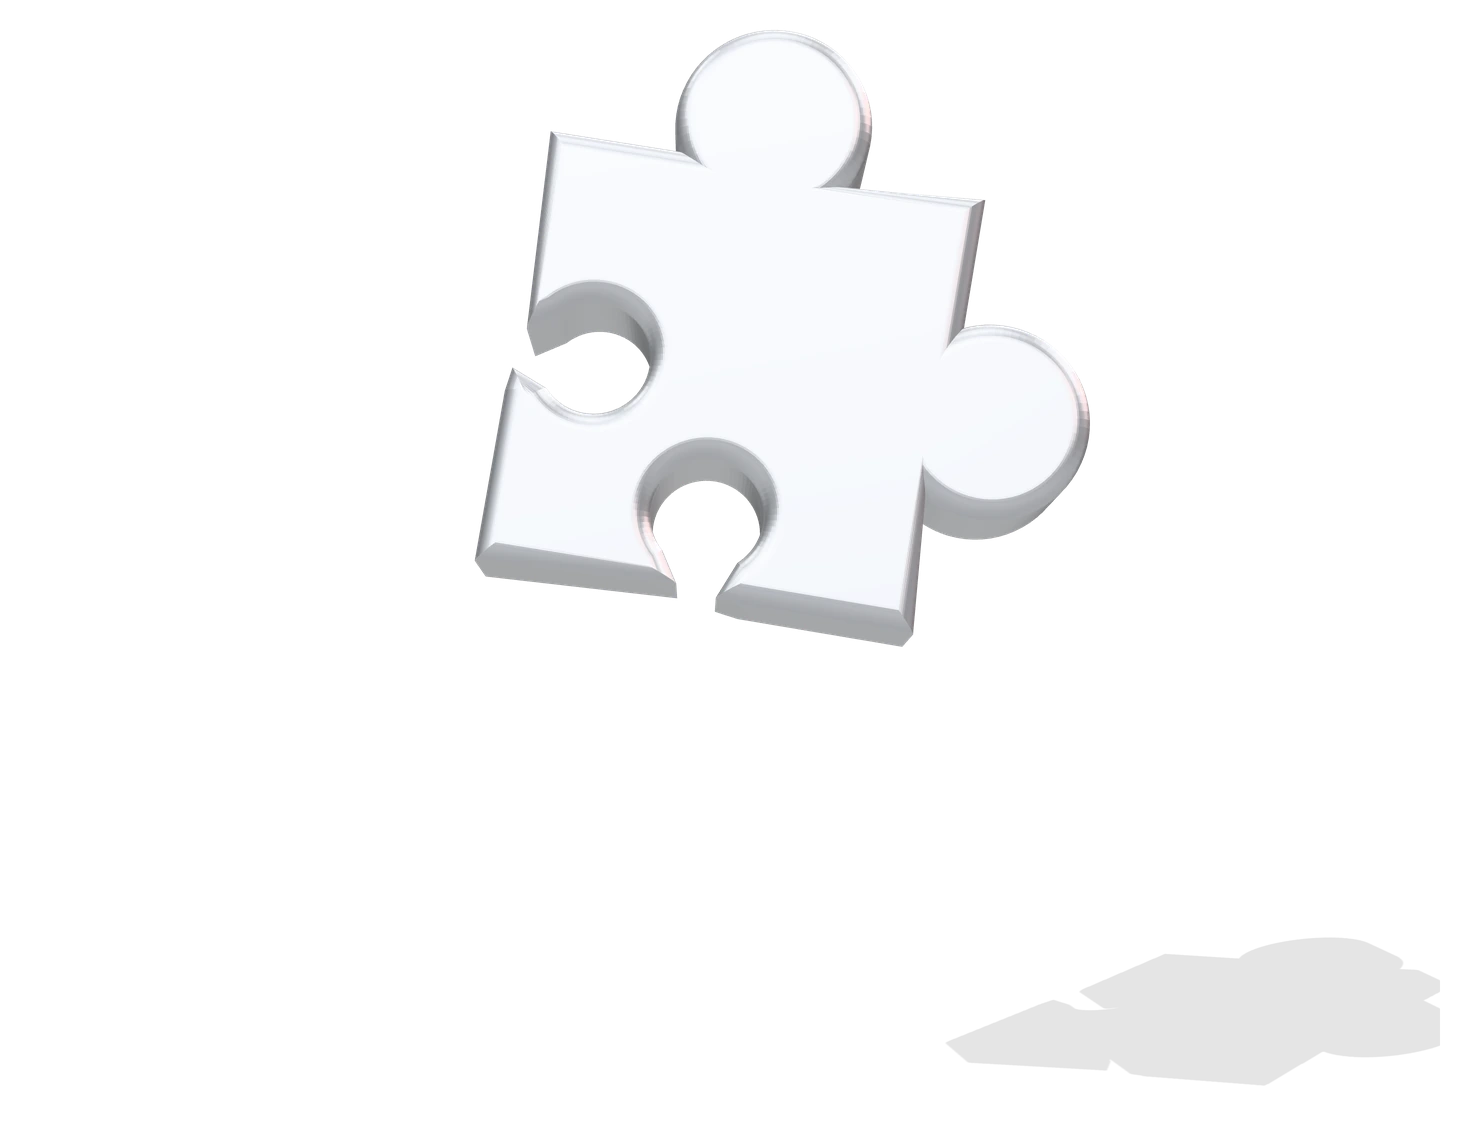
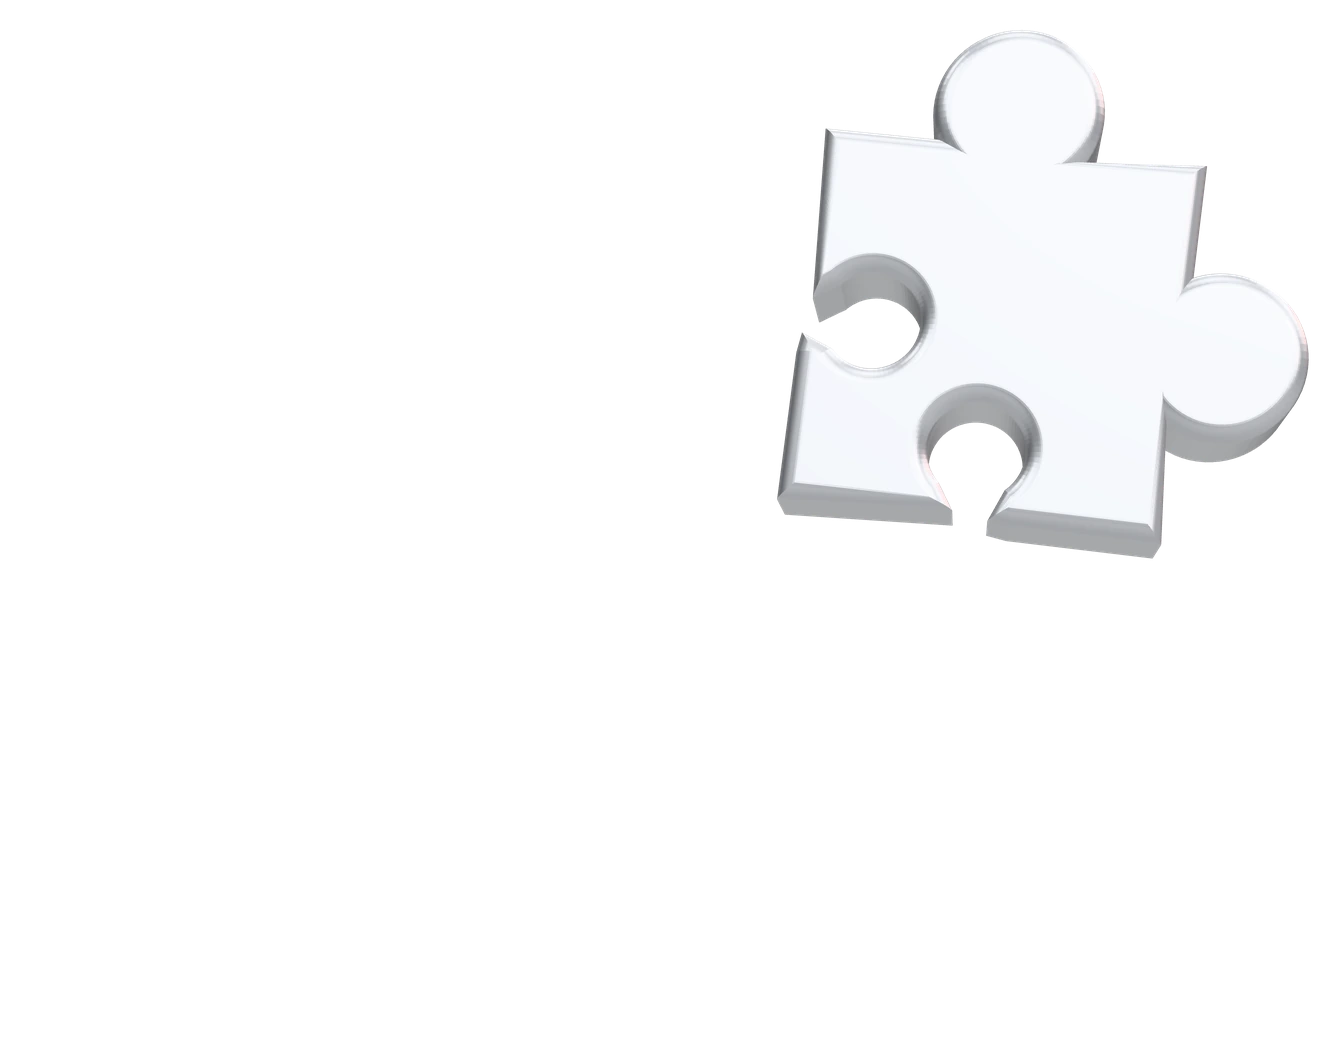
Hero: heart turned left, glass reflection, cursor tilt
Claude-Session: https://claude.ai/code/session_01PkeobWmfrChtD7SqVdFZLv

diff --git a/index.html b/index.html
@@ -754,22 +754,22 @@ a{color:#4A5163}a:hover{color:#E63E3E}
 /* light puzzle hero */
 .leaplite::after{display:none!important}
 .leaplite{background:radial-gradient(ellipse 70% 60% at 72% 48%,#FFF1EE 0%,#FFFFFF 62%)}
-.pzl{position:absolute;z-index:1;right:max(16px,calc((100vw - 1240px)/2));top:50%;width:min(40vw,620px);height:auto;aspect-ratio:1470/1140;transform:translateY(-44%);right:max(60px,calc((100vw - 1100px)/2))}
+.pzl{position:absolute;z-index:1;right:max(16px,calc((100vw - 1240px)/2));top:50%;width:min(40vw,620px);height:auto;aspect-ratio:1339/1045;transform:translateY(-52%) perspective(1400px) rotateX(var(--rx,0deg)) rotateY(var(--ry,0deg));transition:transform .6s cubic-bezier(.2,.8,.2,1);transform-style:preserve-3d;right:max(60px,calc((100vw - 1100px)/2))}
 .pzl img{position:absolute;inset:0;width:100%;height:100%;object-fit:contain}
 .pzl .pzb,.pzl .pzh,.pzl .pzf,.pzl .pzp,.pzl .pzo{position:absolute;inset:0;width:100%;height:100%}
 .pzh,.pzp,.pzo{object-fit:contain}
 .pzb{transform-origin:42% 60%}
 .pzh{filter:drop-shadow(0 30px 34px rgba(150,20,25,.16))}
-.pzf{-webkit-mask:var(--hm) center/contain no-repeat;mask:var(--hm) center/contain no-repeat;background:var(--fl) 0 0/170% auto;mix-blend-mode:soft-light;opacity:.3;animation:pzflow 14s linear infinite}
+.pzf{-webkit-mask:var(--hm) center/contain no-repeat;mask:var(--hm) center/contain no-repeat;background:var(--fl) 0 0/170% auto;mix-blend-mode:soft-light;opacity:.16;animation:pzflow 14s linear infinite}
 .pzp{opacity:0}
-.pzo{z-index:2;will-change:transform;transform-origin:52.5% 31.5%}
+.pzo{z-index:2;will-change:transform;transform-origin:76.8% 30.2%}
 .pzl:not(.fit) .pzo{animation:pzbob 3.2s ease-in-out infinite}
 @keyframes pzbob{0%,100%{translate:0 0}50%{translate:0 -1.6%}}
 .pzl.fit .pzo{opacity:0}.pzl.fit .pzp{opacity:1}
 @keyframes pzflow{0%{background-position:0% 30%}50%{background-position:100% 70%}100%{background-position:0% 30%}}
 .pzl.joy .pzb{animation:pzjoy 1.9s ease-in-out both}
 @keyframes pzjoy{0%{transform:none;filter:none}18%{transform:scale(1.05);filter:saturate(1.15) brightness(1.07) drop-shadow(0 0 40px rgba(255,80,70,.45))}36%{transform:scale(1)}52%{transform:scale(1.03);filter:saturate(1.12) brightness(1.05) drop-shadow(0 0 30px rgba(255,80,70,.35))}100%{transform:scale(1);filter:saturate(1.06) brightness(1.02)}}
-.pzring{position:absolute;left:30%;top:48%;width:60%;aspect-ratio:1;border-radius:50%;border:2px solid rgba(252,80,80,.55);transform:translate(-50%,-50%) scale(.6);opacity:0;pointer-events:none}
+.pzring{position:absolute;left:38%;top:52%;width:60%;aspect-ratio:1;border-radius:50%;border:2px solid rgba(252,80,80,.55);transform:translate(-50%,-50%) scale(.6);opacity:0;pointer-events:none}
 .pzring2{border-color:rgba(252,80,80,.35)}
 .pzl.joy .pzring{animation:pzring 1.6s ease-out both}.pzl.joy .pzring2{animation-delay:.2s}
 @keyframes pzring{0%{opacity:.9;transform:translate(-50%,-50%) scale(.6)}100%{opacity:0;transform:translate(-50%,-50%) scale(1.5)}}
@@ -825,6 +825,11 @@ body{font-size:15px}
 .why .msd{color:#fff}.pls .msd{color:#fff}.proto .msd{color:#E63E3E}
 }
 @media (min-width:701px){.msd{display:none}}
+/* glass reflection + floor */
+
+@media (min-width:1001px){.pzb{-webkit-box-reflect:below 0 linear-gradient(to bottom,transparent 58%,rgba(255,255,255,.32) 100%)}}
+.pzl::before{content:"";position:absolute;left:-8%;right:-4%;top:99%;height:46%;background:linear-gradient(180deg,rgba(255,255,255,.55),rgba(255,255,255,0) 70%),radial-gradient(ellipse 50% 22% at 38% 0%,rgba(140,20,30,.14),transparent 70%);border-top:1px solid rgba(255,255,255,.9);-webkit-mask:linear-gradient(90deg,transparent,#000 18%,#000 82%,transparent);mask:linear-gradient(90deg,transparent,#000 18%,#000 82%,transparent);z-index:3;pointer-events:none;-webkit-backdrop-filter:blur(1.5px);backdrop-filter:blur(1.5px)}
+@media (max-width:1000px){.pzb{-webkit-box-reflect:none!important}.pzl::before{display:none!important}}
 /* reviews */
 .rvrow{display:flex;gap:20px;width:max-content;animation:marq 70s linear infinite}
 .rvrow.rev{animation:marqr 80s linear infinite}
@@ -1217,11 +1222,14 @@ function tick(now){var dt=Math.min(50,now-last);last=now;
 (function(){var L=document.querySelector('.pzl');if(!L)return;var o=L.querySelector('.pzo'),sec=L.closest('.leap'),fit=false,tk=false;
 var red=window.matchMedia&&matchMedia('(prefers-reduced-motion: reduce)').matches;
 function set(t){var e=t<.5?2*t*t:1-Math.pow(-2*t+2,2)/2;var arc=Math.sin(Math.PI*e)*-6;
-o.style.transform='translate('+(-13.17*e)+'%,'+(14.8*e+arc)+'%) rotate('+(-4*Math.sin(Math.PI*e))+'deg) scale('+(1-.342*e)+')';
+o.style.transform='translate('+(-25.62*e)+'%,'+(16.15*e+arc)+'%) rotate('+(-4*Math.sin(Math.PI*e))+'deg) scale('+(1-.3*e)+')';
 if(t>=1&&!fit){fit=true;L.classList.add('fit');L.classList.remove('joy');void L.offsetWidth;L.classList.add('joy');if(sec){sec.classList.remove('beat');void sec.offsetWidth;sec.classList.add('beat');}}
 else if(t<.96&&fit){fit=false;L.classList.remove('fit','joy');if(sec)sec.classList.remove('beat');}}
 function upd(){tk=false;var r=Math.min(window.innerHeight*.2,170);set(red?1:Math.max(0,Math.min(1,window.scrollY/r)));}
 addEventListener('scroll',function(){if(!tk){tk=true;requestAnimationFrame(upd);}},{passive:true});addEventListener('resize',upd);upd();})();
+(function(){var L=document.querySelector('.pzl'),S=L&&L.closest('.leap');if(!L||!S||!matchMedia('(pointer:fine) and (min-width:1001px)').matches||matchMedia('(prefers-reduced-motion: reduce)').matches)return;
+S.addEventListener('mousemove',function(e){var r=L.getBoundingClientRect(),x=(e.clientX-(r.left+r.width/2))/window.innerWidth,y=(e.clientY-(r.top+r.height/2))/window.innerHeight;L.style.setProperty('--ry',(x*14).toFixed(2)+'deg');L.style.setProperty('--rx',(-y*10).toFixed(2)+'deg');},{passive:true});
+S.addEventListener('mouseleave',function(){L.style.setProperty('--ry','0deg');L.style.setProperty('--rx','0deg');});})();
 var fq=document.querySelectorAll('[data-fq]');
 fq.forEach(function(b){b.addEventListener('click',function(){var i=b.getAttribute('data-fq');var open=b.getAttribute('aria-expanded')==='true';
  fq.forEach(function(x){x.setAttribute('aria-expanded','false');x.querySelector('.fqi').classList.remove('open');});
